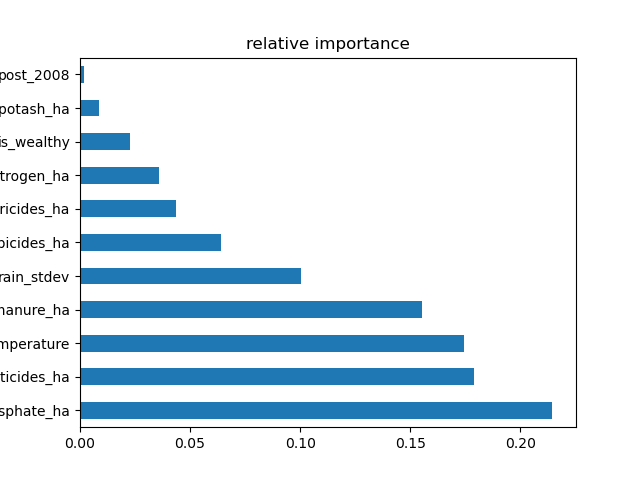
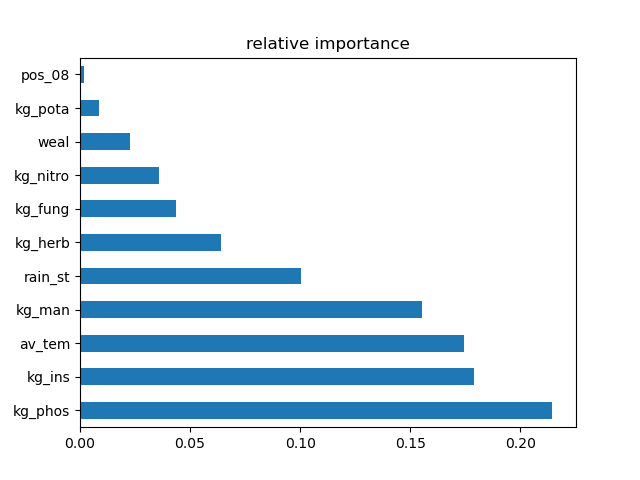
fixed pylint errors

diff --git a/functions.py b/functions.py
@@ -10,6 +10,13 @@ import seaborn as sns
 import statsmodels.formula.api as smf
 # from sklearn.ensemble import RandomForestRegressor
 
+# disabling no-member error because pylint gives false
+# positives to DatetimeIndex
+
+# https://github.com/PyCQA/pylint/issues/3344
+
+# pylint: disable=E1101
+
 
 def rain_frame():
     """cleans and modifies rain data for merge"""
@@ -557,23 +564,28 @@ def random_forest_model(dataframe):
        uses training and test sets to k-fold cross validate.
        returns random forest model and prediction accuracy"""
     cleaned_data = dataframe
-    feature_list = ["kg_nitrogen_ha", "kg_phosphate_ha",
-                    "kg_potash_ha", "kg_manure_ha",
-                    "kg_Fungicides_Bactericides_ha",
-                    "kg_Herbicides_ha", "kg_Insecticides_ha",
-                    "AverageTemperature",
-                    "rain_stdev", "is_wealthy",
-                    "post_2008"]
+
+    # truncating names to better see on importance chart
+    cleaned_data = cleaned_data.rename(
+                   columns={"kg_nitrogen_ha": "kg_nitro",
+                            "kg_phosphate_ha": "kg_phos",
+                            "kg_potash_ha": "kg_pota",
+                            "kg_manure_ha": "kg_man",
+                            "kg_Fungicides_Bactericides_ha": "kg_fung",
+                            "kg_Herbicides_ha": "kg_herb",
+                            "kg_Insecticides_ha": "kg_ins",
+                            "AverageTemperature": "av_tem",
+                            "rain_stdev": "rain_st",
+                            "is_wealthy": "weal",
+                            "post_2008": "pos_08"})
+
+    feature_list = ["kg_nitro", "kg_phos", "kg_pota", "kg_man",
+                    "kg_fung", "kg_herb", "kg_ins", "av_tem",
+                    "rain_st", "weal", "pos_08"]
 
     x_var = cleaned_data[feature_list]
 
     x_columns = x_var.columns
-
-    # truncates feature names to more easily see on
-    # graph
-
-    for i in range(len(feature_list)):
-        feature_list[i] = feature_list[i][0:5]
 
     # normalizing data
 
@@ -609,6 +621,8 @@ def random_forest_model(dataframe):
     plt.title("relative importance")
 
     plt.savefig("importance_plot")
+
+    plt.clf()
 
     return mean_per
 
